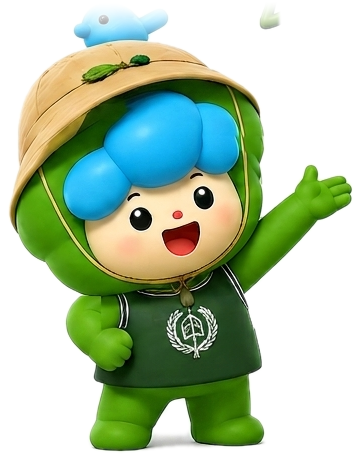
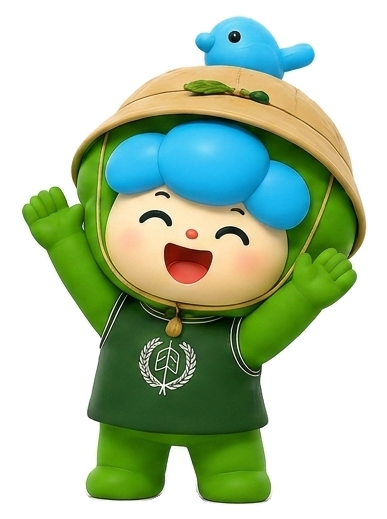
Add planting pose to page 4, replace cheer.png with better pose
User supplied a 3-character composite image. Split into 3 via
connected-component labeling on the flood-fill background mask.

- Right character (arms raised, cheering) -> replaced cheer.png.
  No vest text on either version (logo emblem only), so no text
  transplant needed. The original cheer.png had its top edge cropped
  (visible sparkle motif cut off); the new render has full headroom.
- Middle character (holding trowel + potted seedling) -> new asset
  assets/planting.png, added as a new mini woopu-wrap on page 4
  ('인공복원 방법 4가지' / uh푸 분신술 section), above the headline -
  thematically fits the 'planting methods' page perfectly.
- Left character (running pose) matched the already-replaced run.png
  closely, so skipped to avoid redundant work.

First background-removal pass cropped each character tightly to its
bbox with no margin, causing edge-touching pixels on all 4 sides.
Fixed by re-cropping from the original composite with 6%/3% margin
before separating into individual files.

Verified pages 4, 6, 8, 9 render correctly with no regressions.

diff --git a/index.html b/index.html
@@ -216,6 +216,7 @@
     <!-- PAGE 4 : 인공복원 방법 (우푸 분신술, 4 steps) -->
     <section class="scene bg-soil" data-steps="4">
       <div class="scene__content">
+        <div class="woopu-wrap mini pop" id="w4" style="margin-bottom:6px"></div>
         <div class="k-eyebrow">METHOD · 우푸 분신술!</div>
         <div class="headline">인공복원 <b>방법 4가지</b></div>
         <div class="grid4 grid4--big" id="grid4"></div>
@@ -319,6 +320,7 @@
   document.getElementById('w8').innerHTML = woopu('victory','victory.png');
   document.getElementById('w9').innerHTML = woopu('cheer','cheer.png');
   document.getElementById('w6').innerHTML = woopu('point','point.png');
+  document.getElementById('w4').innerHTML = woopu('planting','planting.png');
 
   /* 인공복원 4단계 (제공된 실제 이미지 카드 그대로 사용) */
   var GRID_IMGS=['cell4_1.png','cell4_2.png','cell4_3.png','cell4_4.png'];
